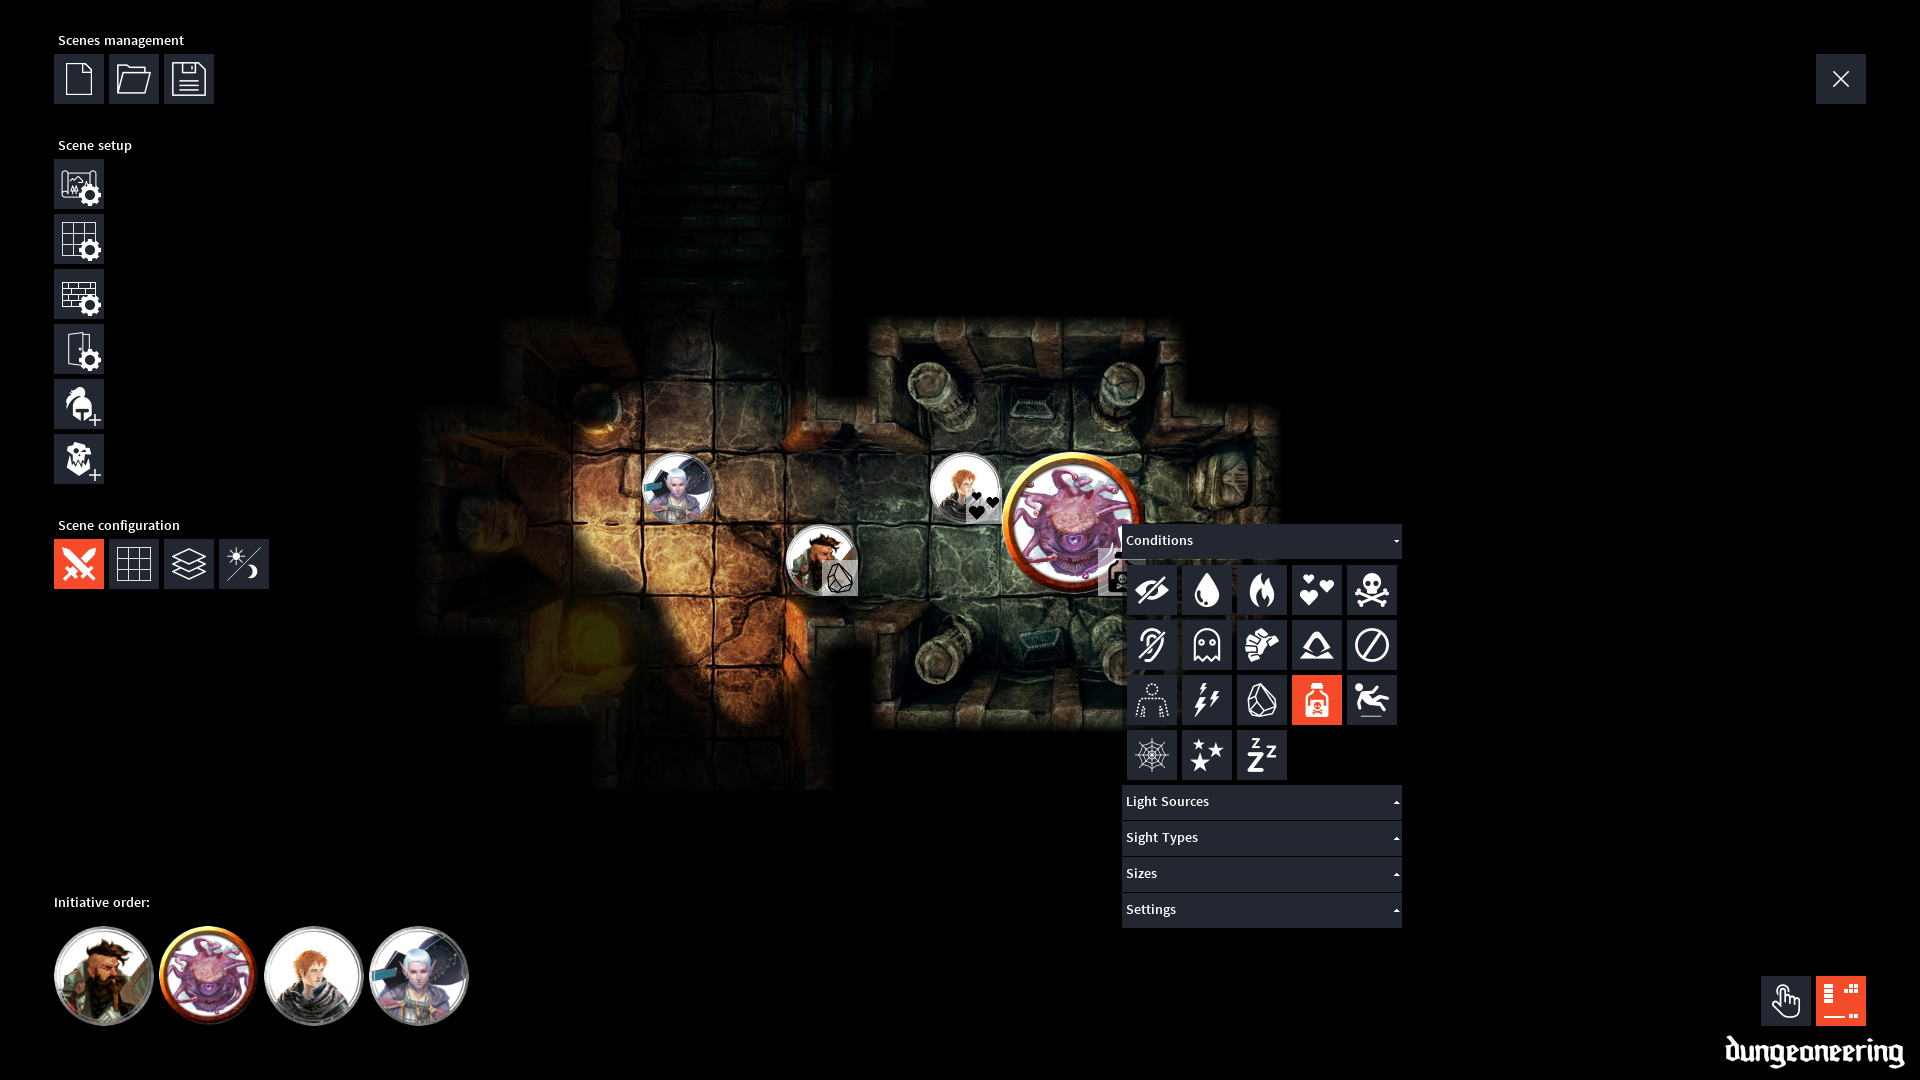
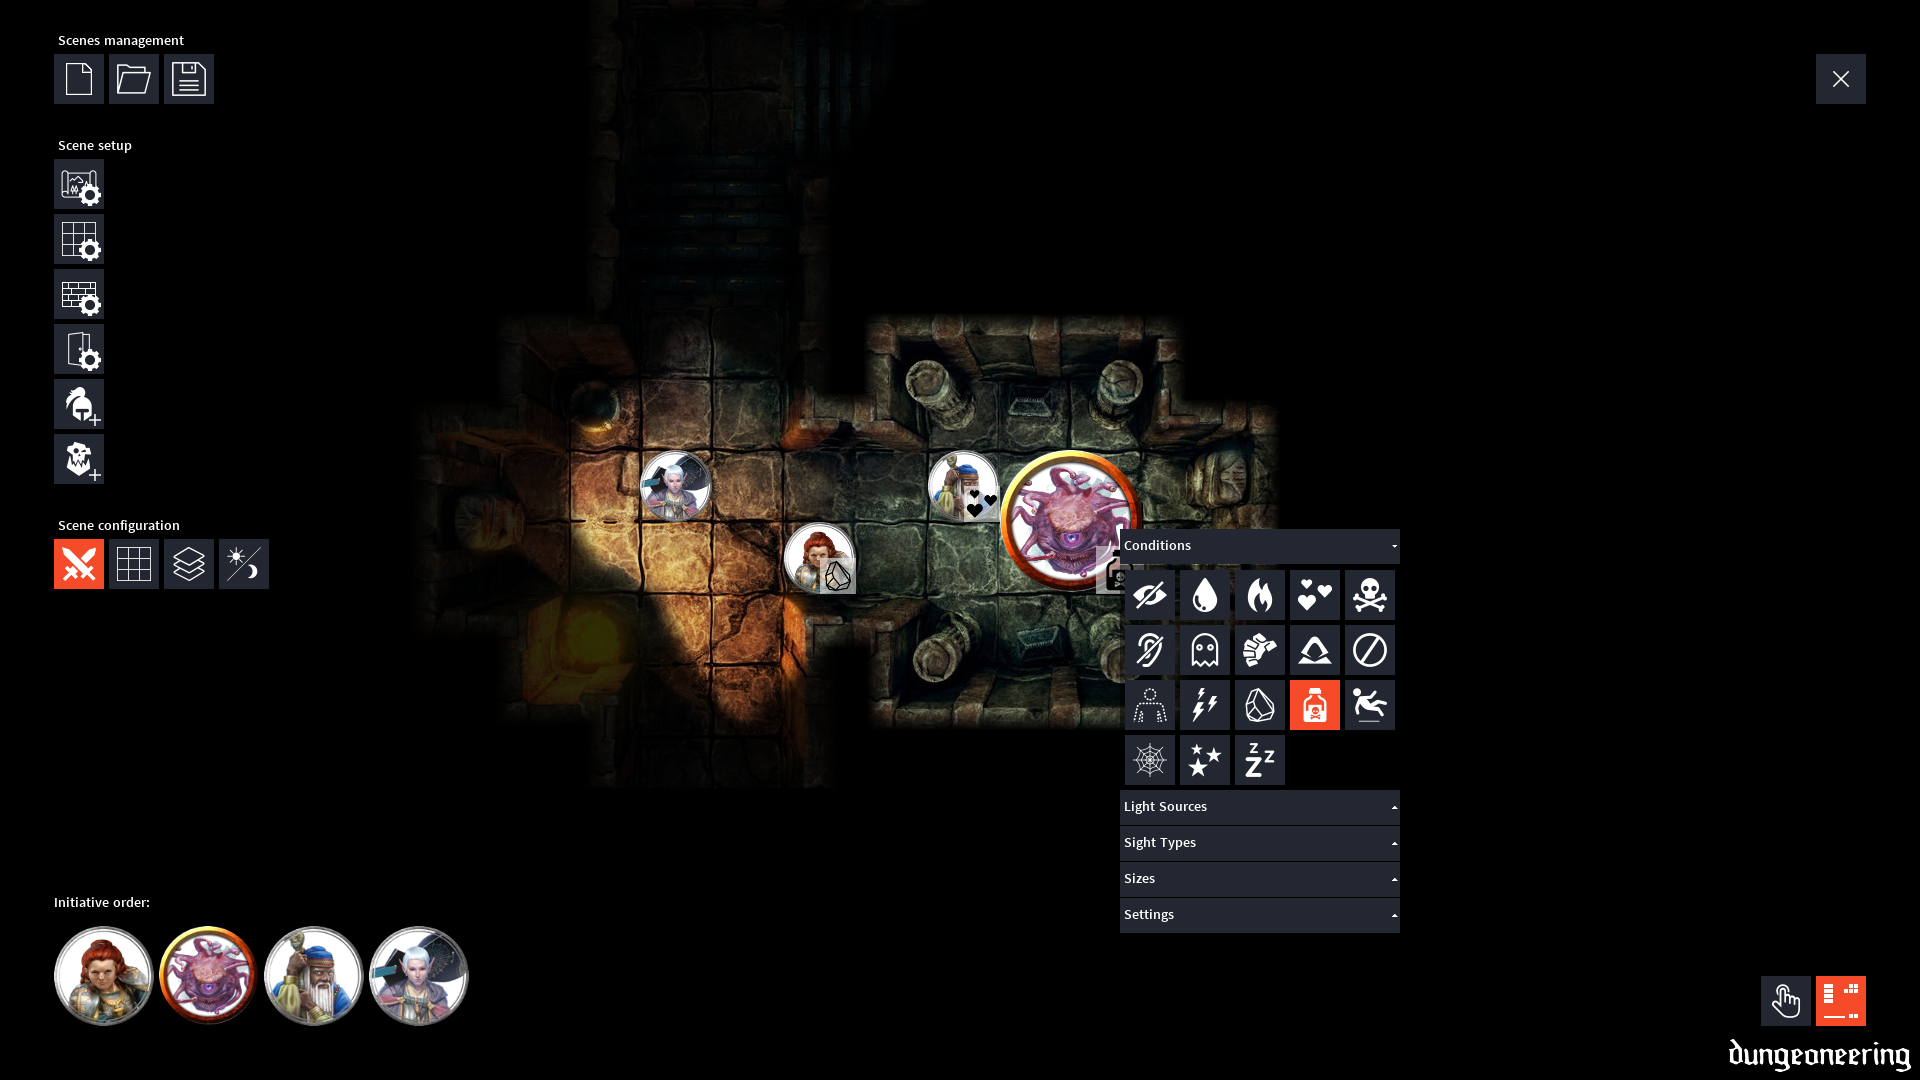
Update tokens, screenshot and cover images

diff --git a/docs/index.md b/docs/index.md
@@ -114,7 +114,7 @@ There are a few demo scenes bundled with the application. The assets used in the
 - The <a class="lightbox-link beholder" title="Beholder Lair map">Beholder Lair map</a> is from [Antal Kéninger](https://www.artstation.com/kena "Antal Kéninger ArtStation profile"){:target="_blank"}.
 - The <a class="lightbox-link illusionist" title="Dungeons of the Grand Illusionist map">Dungeons of the Grand Illusionist map</a> is from [Dyson Logos](https://www.patreon.com/dysonlogos "Dyson Logos Patreon page"){:target="_blank"}.
 - The <a class="lightbox-link bridge" title="Old Bridge map">Old Bridge map</a> is from [Sliph](https://www.patreon.com/sliph "Sliph Patreon page"){:target="_blank"}.
-- All tokens were created using the [Token Stamp tool](https://rolladvantage.com/tokenstamp/ "Token Stamp tool"){:target="_blank"} with D&D 5th edition images.
+- All tokens were created using the [Token Stamp tool](https://rolladvantage.com/tokenstamp/ "Token Stamp tool"){:target="_blank"} with D&D 5th edition images, © Wizards of the Coast.
 
 
 
